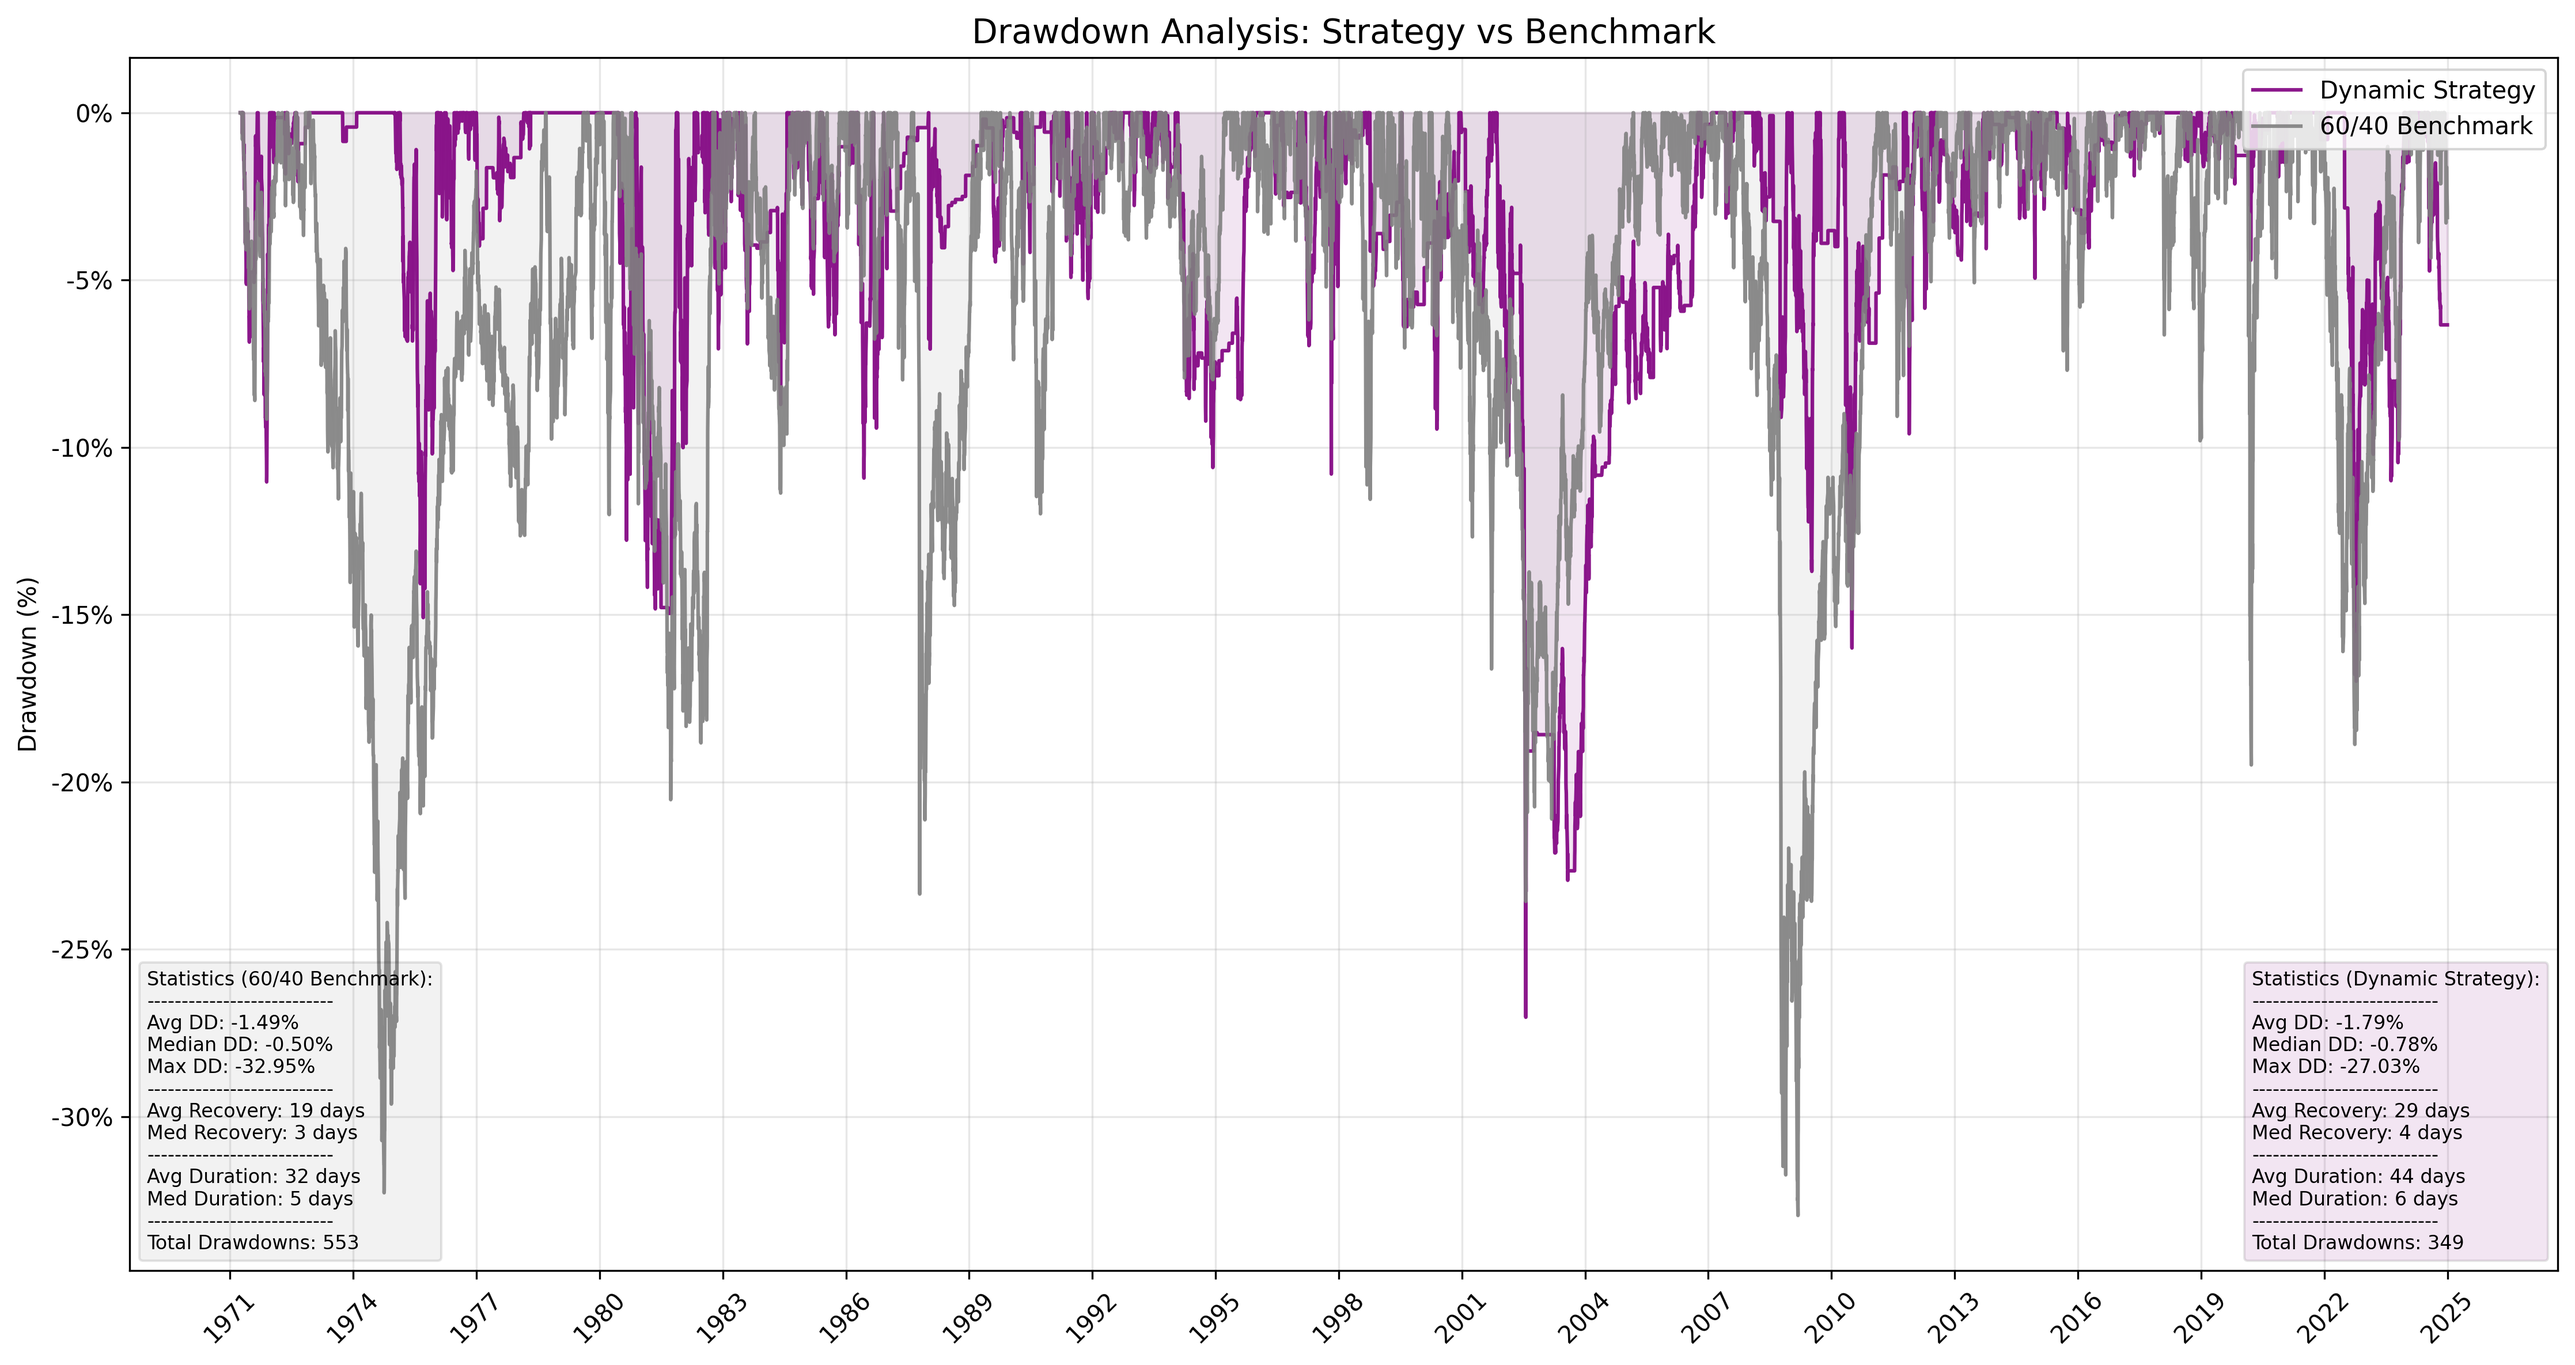
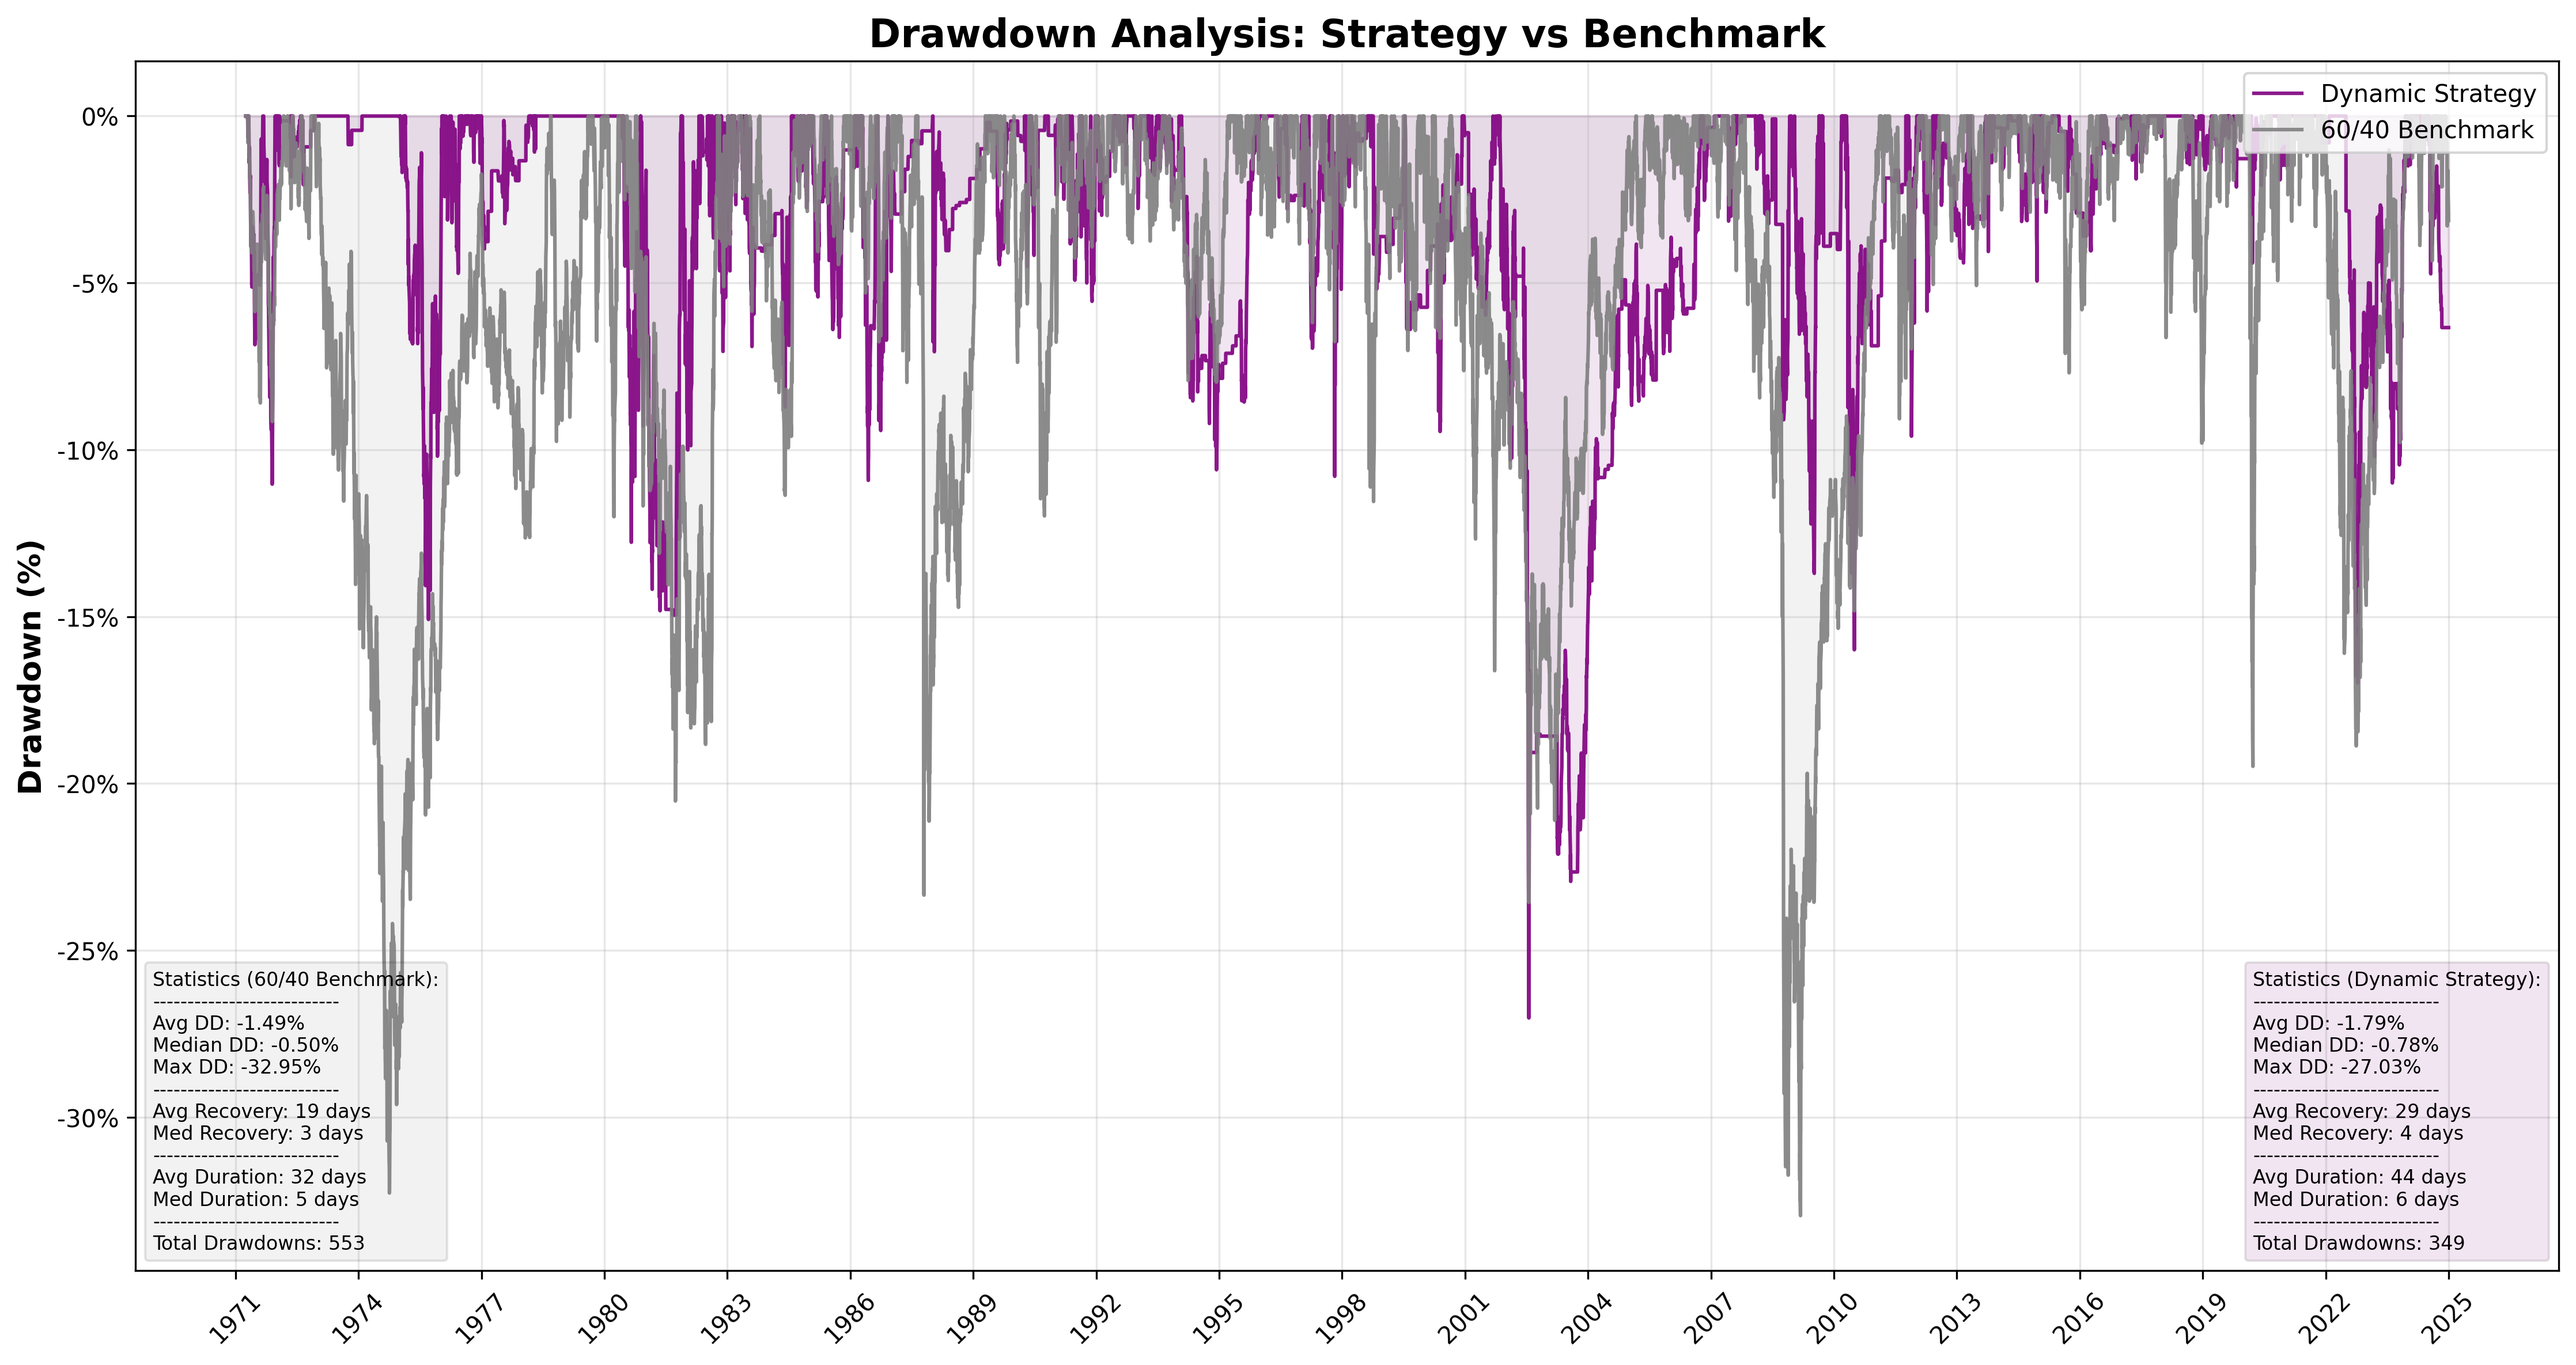
Made title and labels bolder

diff --git a/10_drawdown_analysis.py b/10_drawdown_analysis.py
@@ -14,7 +14,8 @@ os.makedirs(fig_dir, exist_ok=True)
 
 # 2. Load Data (Updated to use Consolidated File)
 print("Loading Data...")
-master_df = pd.read_csv(os.path.join(mod_dir, 'consolidated_portfolio_rebased.csv'), index_col='date', parse_dates=True)
+master_df = pd.read_csv(os.path.join(mod_dir, 'consolidated_portfolio_rebased.csv'), 
+                        index_col='date', parse_dates=True)
 
 # Prepare DataFrame for Drawdown Analysis
 df = pd.DataFrame(index=master_df.index)
@@ -29,35 +30,21 @@ dd = (df / df.cummax()) - 1
 
 # 4. Helper: Calculate Advanced Drawdown Statistics
 def get_dd_stats(series):
-    # Identify drawdown periods
     is_dd = series < 0
-    
-    # Identify starts (0 -> neg) and ends (neg -> 0)
-    # FIX: Use fill_value=False inside shift() to maintain boolean dtype
     starts = (~is_dd).shift(1, fill_value=False) & is_dd
     ends = is_dd.shift(1, fill_value=False) & (~is_dd)
     
-    # Get dates
     start_dates = series.index[starts]
     end_dates = series.index[ends]
     
-    # Handle case where current drawdown hasn't recovered
     if len(start_dates) > len(end_dates):
         end_dates = end_dates.append(pd.Index([series.index[-1]]))
         
     stats = []
     for s, e in zip(start_dates, end_dates):
-        # Slice the specific drawdown window
         window = series.loc[s:e]
-        
-        # Trough (Min value and date)
         trough_val = window.min()
-        # trough_date = window.idxmin() 
-        
-        # Duration (Start to Recovery)
         duration = (e - s).days
-        
-        # Recovery (Trough to Recovery)
         trough_date = window.idxmin()
         recovery = (e - trough_date).days
         
@@ -85,11 +72,9 @@ def get_dd_stats(series):
 
 # 5. Helper: Plotting with Stats Box
 def plot_drawdown(ax, series, name, color, stats_loc='lower left'):
-    # Plot Line & Fill
     ax.plot(series.index, series, label=name, color=color, linewidth=1.5, alpha=0.9)
     ax.fill_between(series.index, series, 0, color=color, alpha=0.1)
     
-    # Calculate Stats
     stats = get_dd_stats(series)
     
     if stats:
@@ -109,7 +94,6 @@ def plot_drawdown(ax, series, name, color, stats_loc='lower left'):
             f"Total Drawdowns: {stats['count']}"
         )
         
-        # Create Text Box
         at = AnchoredText(text_str, loc=stats_loc, prop=dict(size=8), frameon=True)
         at.patch.set_boxstyle("round,pad=0.,rounding_size=0.2")
         at.patch.set_facecolor(color)
@@ -124,8 +108,11 @@ fig1, ax1 = plt.subplots(figsize=(15, 8))
 plot_drawdown(ax1, dd['Dynamic'], 'Dynamic Strategy', 'purple', 'lower right')
 plot_drawdown(ax1, dd['60/40'], '60/40 Benchmark', 'gray', 'lower left')
 
-ax1.set_title('Drawdown Analysis: Strategy vs Benchmark', fontsize=14)
-ax1.set_ylabel('Drawdown (%)')
+ax1.set_title('Drawdown Analysis: Strategy vs Benchmark', 
+              fontsize=16, fontweight='bold')                    # ← updated
+ax1.set_ylabel('Drawdown (%)', 
+               fontsize=13, fontweight='bold')                   # ← updated
+
 ax1.yaxis.set_major_formatter(plt.FuncFormatter(lambda y, _: '{:.0%}'.format(y)))
 ax1.xaxis.set_major_locator(mdates.YearLocator(3))
 ax1.xaxis.set_major_formatter(mdates.DateFormatter('%Y'))
@@ -146,9 +133,12 @@ plot_drawdown(ax2a, dd['Stocks'], 'Stocks (S&P 500)', 'green', 'lower left')
 plot_drawdown(ax2b, dd['Bonds'], 'Bonds (10Y Treas)', 'red', 'lower left')
 plot_drawdown(ax2c, dd['60/40'], '60/40 Benchmark', 'gray', 'lower left')
 
-ax2a.set_title('Drawdown Analysis: Asset Classes', fontsize=14)
+ax2a.set_title('Drawdown Analysis: Asset Classes', 
+               fontsize=16, fontweight='bold')                    # ← updated
+
 for ax in [ax2a, ax2b, ax2c]:
-    ax.set_ylabel('Drawdown (%)')
+    ax.set_ylabel('Drawdown (%)', 
+                  fontsize=13, fontweight='bold')                 # ← updated
     ax.yaxis.set_major_formatter(plt.FuncFormatter(lambda y, _: '{:.0%}'.format(y)))
     ax.grid(True, alpha=0.3)
     ax.legend(loc='upper right')
@@ -169,8 +159,11 @@ fig3, ax3 = plt.subplots(figsize=(15, 8))
 plot_drawdown(ax3, dd['Stocks'], 'Stocks (S&P 500)', 'green', 'lower left')
 plot_drawdown(ax3, dd['Dynamic'], 'Dynamic Strategy', 'purple', 'lower right')
 
-ax3.set_title('Drawdown Analysis: Strategy vs Stocks', fontsize=14)
-ax3.set_ylabel('Drawdown (%)')
+ax3.set_title('Drawdown Analysis: Strategy vs Stocks', 
+              fontsize=16, fontweight='bold')                    # ← updated
+ax3.set_ylabel('Drawdown (%)', 
+               fontsize=13, fontweight='bold')                   # ← updated
+
 ax3.yaxis.set_major_formatter(plt.FuncFormatter(lambda y, _: '{:.0%}'.format(y)))
 ax3.xaxis.set_major_locator(mdates.YearLocator(3))
 ax3.xaxis.set_major_formatter(mdates.DateFormatter('%Y'))
